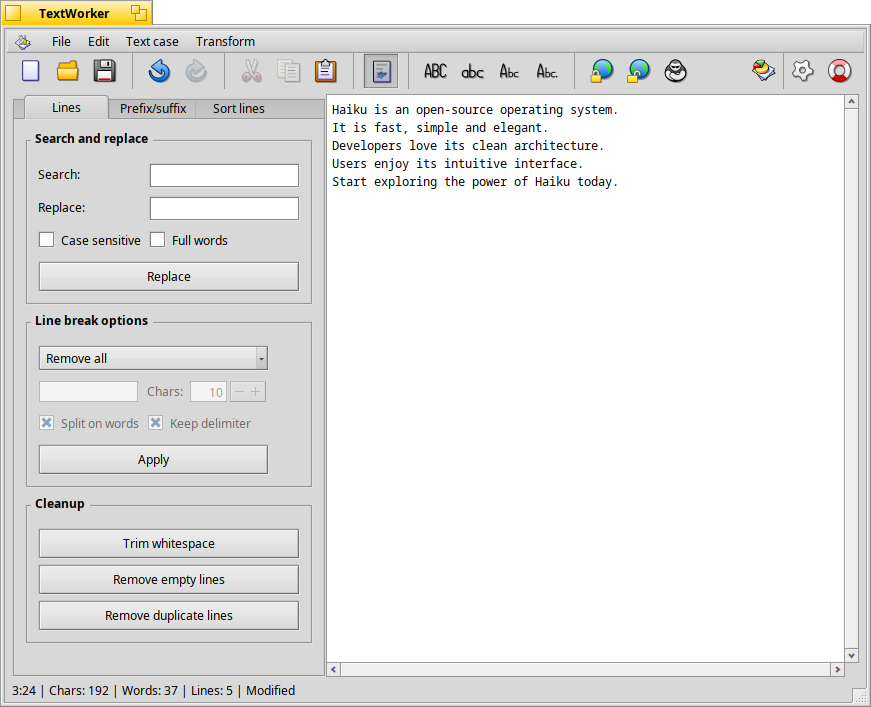
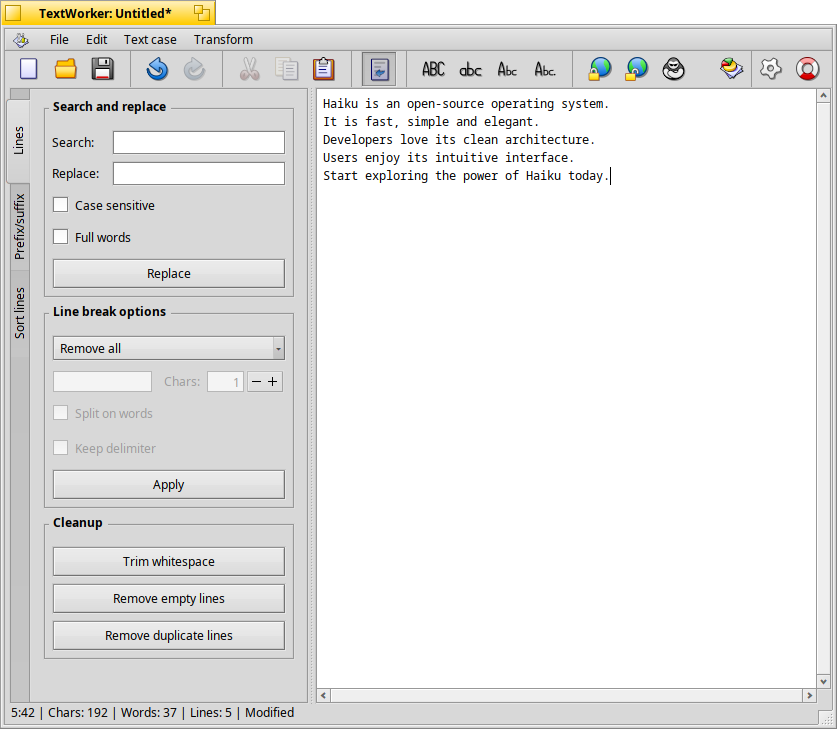
New version and screenshot

Changed region(s): [[0.0, 0.0, 0.994, 0.9958]]

diff --git a/SettingsWindow.cpp b/SettingsWindow.cpp
@@ -107,7 +107,7 @@ SettingsWindow::PopulateFontMenu(BPopUpMenu* menu)
 	// Add a default system font option
 	BMenuItem* defaultItem = new BMenuItem("System default", new BMessage(M_APPLY_SETTINGS));
 	menu->AddItem(defaultItem);
-	menu->AddSeparatorItem(); // Optional visual separator
+	menu->AddSeparatorItem();
 	defaultItem->SetMarked(true);
 
 	font_family family;